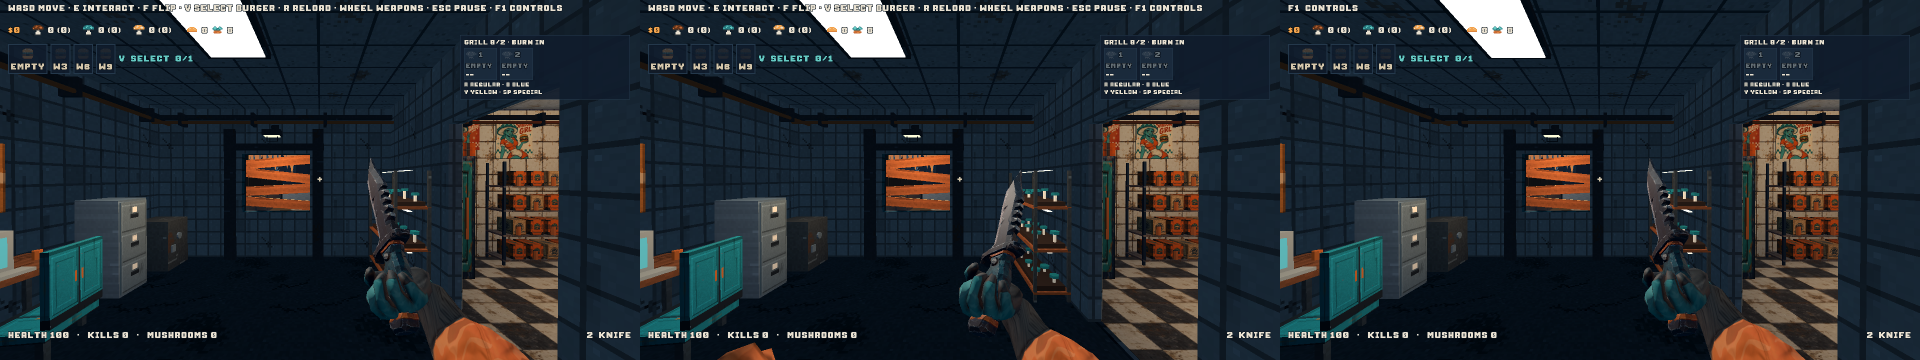
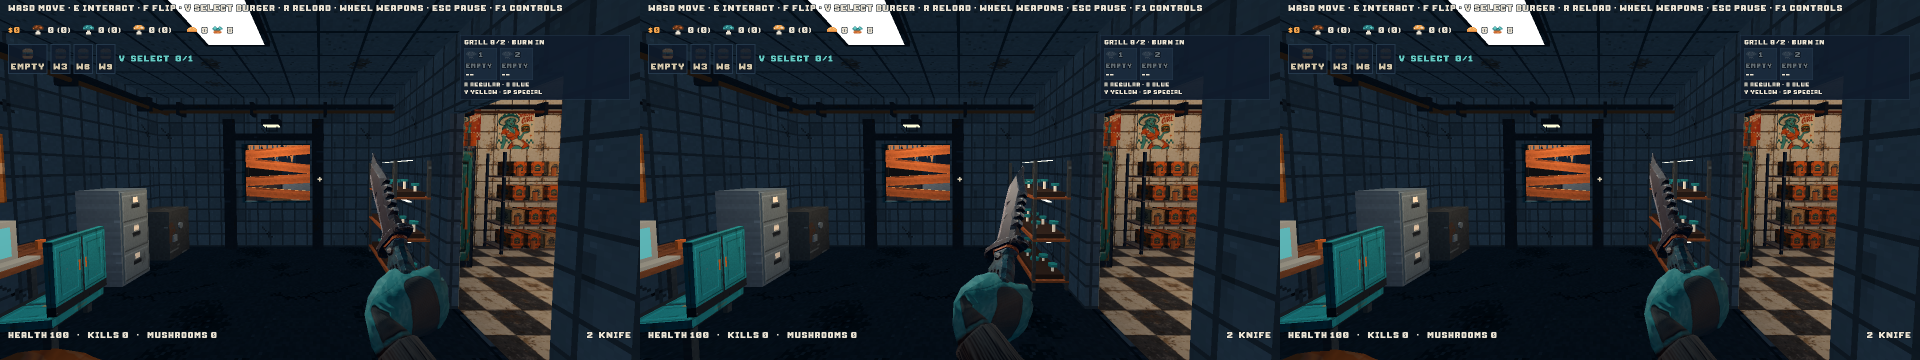
Re-fit the AKS arms on knife, dagger, sawn-off and pump from grip frames
Owner: the non-handgun arms weren't right. Their fits came from multi-start
ICP alone, which settles on hands that overlap the old ones but are turned
round. tools/fps_arms_fit.py now starts each fit from the hand's grip frame
(knuckle line index->pinky, palm facing the object) laid on the weapon's:
long guns from the grip/fore-end directions in camera space at rest
(tools/fps_arms_frames_export.gd, run in game), knife/dagger from the old PSX
hand's finger bones. ICP then refines (10-37 degrees). Close-up capture now
centres on the hand.

Tested: fps_arms_test, knife_test, knife_viewmodel_test, crop_duster_test,
shotgun_test, new_shotgun_grip_test, integration_test: 0 failures.
First-person captures inspected: knife/dagger come up out of the fist, pump
left hand wraps the fore-end from below, sawn-off hands on grip and fore-end.

Claude-Session: https://claude.ai/code/session_01WCsn9RbBfcfb7Wuzf9BFFz

diff --git a/tools/fps_arms_fit.py b/tools/fps_arms_fit.py
@@ -1,6 +1,14 @@
 #!/usr/bin/env python3
 """Solve how the shared AKS hand sits inside each weapon's old hand frame.
 
+Semantic start (default for the long guns and blades): plain multi-start ICP
+can settle on a hand that overlaps the old one but is turned round (fingers
+backwards). So each fit starts from the hand's grip frame (knuckle line index
+to pinky, palm facing the object) laid on the weapon's grip frame: for long
+guns from the grip/fore-end directions in camera space at rest, for the knife
+and dagger from the old PSX hand's own finger bones. ICP then only refines
+(tools/fps_arms_frames_export.gd writes frames.json first).
+
   godot --headless --path . --script res://tools/fps_arms_fit_export.gd -- /tmp/fit
   python3 tools/fps_arms_fit.py /tmp/fit
 
@@ -69,10 +77,54 @@ def icp(src, dst_tree, dst, R, t, iters=60, keep=0.75):
     return R, t, float(np.sqrt(np.mean(np.sort(d)[: int(len(d) * keep)] ** 2)))
 
 
-def fit(aks, old):
+def grip_frame(lm):
+    """x: knuckle line index->pinky, y: palm facing the object, origin: knuckles."""
+    I = np.array(lm['index'][0]); P = np.array(lm['pinky'][0]); W = np.array(lm['wrist'][0])
+    tips = np.array(lm['tips']).mean(0)
+    x = P - I; x /= np.linalg.norm(x)
+    n = np.cross(I - W, P - W); n /= np.linalg.norm(n)
+    if np.dot(n, tips - (I + P) / 2) < 0:
+        n = -n
+    y = n - x * np.dot(n, x); y /= np.linalg.norm(y)
+    return np.stack([x, y, np.cross(x, y)], 1), (I + P) / 2
+
+
+# long guns, in camera space at rest: knuckle line and palm->object direction
+LONG_GUN = {'r': ((0.0, -1.0, 0.25), (0.0, 0.0, -1.0)),   # pistol grip: knuckles down the raked grip, palm forward
+            'l': ((0.0, 0.0, 1.0), (0.0, 1.0, 0.0))}       # fore-end: knuckles along it (index forward), palm up
+
+
+def semantic_start(frames, weapon, side, aks_key):
+    H, h0 = grip_frame(frames[aks_key][side])
+    e = frames[weapon][side]
+    if 'index' in e:                        # knife/dagger: the old PSX hand's own grip frame
+        G, g0 = grip_frame(e)
+    else:
+        rc = np.array(e['ref_in_camera'][:3]).T    # columns: ref axes in camera space
+        k, n = (np.array(v, float) for v in LONG_GUN[side])
+        k = rc.T @ (k / np.linalg.norm(k)); n = rc.T @ (n / np.linalg.norm(n))
+        n = n - k * np.dot(n, k); n /= np.linalg.norm(n)
+        G, g0 = np.stack([k, n, np.cross(k, n)], 1), None
+    R0 = G @ H.T
+    return R0, h0, g0
+
+
+def angle_between(A, B):
+    return math.degrees(Rotation.from_matrix(A @ B.T).magnitude())
+
+
+def fit(aks, old, start=None):
     size = np.ptp(aks, axis=0).max()
     core, centre = hand_core(old, size)
     tree = cKDTree(core)
+    if start is not None:
+        R0, h0, g0 = start
+        t0 = (g0 - R0 @ h0) if g0 is not None else centre - (aks @ R0.T).mean(0)
+        R, t, err = icp(aks, tree, core, R0, t0)
+        ratio = np.ptp(core, axis=0).max() / size
+        drift = angle_between(R, R0)
+        eul = Rotation.from_matrix(R).as_euler('YXZ', degrees=True)
+        return t, (eul[1], eul[0], eul[2]), err, ratio, drift
     best = None
     for R0 in axis_rotations():
         t0 = centre - (aks @ R0.T).mean(0)
@@ -84,18 +136,25 @@ def fit(aks, old):
     # Godot Basis.from_euler default order is YXZ
     eul = Rotation.from_matrix(R).as_euler('YXZ', degrees=True)
     rot = (eul[1], eul[0], eul[2])
-    return t, rot, err, ratio
+    return t, rot, err, ratio, None
 
 
 def main(d):
+    import json
+    fp = os.path.join(d, 'frames.json')
+    frames = json.load(open(fp)) if os.path.exists(fp) else {}
     for weapon, pairs in PAIRS.items():
         out = []
         for side, pair in zip('rl', pairs):
             a, o = pair[0], pair[1]
             scale = pair[2] if len(pair) > 2 else 1.0
-            t, rot, err, ratio = fit(load(d, a) * scale, load(d, o))
+            start = None
+            if weapon in frames and not a.endswith('_p43'):
+                start = semantic_start(frames, weapon, side, 'aks_fist' if a.endswith('_fist') else 'aks')
+            t, rot, err, ratio, drift = fit(load(d, a) * scale, load(d, o), start)
             out.append('"%s": [Vector3(%.4f, %.4f, %.4f), Vector3(%.1f, %.1f, %.1f)]' % (side, *t, *rot))
-            print('# %s %s: rms %.4f m, old/new hand size %.2f' % (weapon, side, err, ratio))
+            how = 'semantic start, ICP turned it %.1f deg' % drift if drift is not None else 'multi-start ICP'
+            print('# %s %s: rms %.4f m, old/new hand size %.2f (%s)' % (weapon, side, err, ratio, how))
         print('"%s": {%s}' % (weapon, ', '.join(out)))
 
 

diff --git a/AGENTS.md b/AGENTS.md
@@ -169,4 +169,4 @@ See docs/handover/UNDEAD_DELIVERY.md; run delivery_test.gd and capture_delivery.
 
 Mushroom grinder: game/grinder_station.gd owns the deposit transaction at Codex's grinder (group mushroom_grinder; play_deposit is cosmetic only). Never create stock from the visual, and keep exactly one grinder model. Run tools/grinder_test.gd and tools/capture_grinder_station.gd.
 
-First-person arms: every weapon uses shared rigged arms in weapons/fps_arms/ (fps_arms.gd; AKS rig for knife/dagger/shotguns, Pistol 43 rig for the handguns, one-handed with left_weight raised for reloads; credits in CREDITS.md). Weapons keep their own animation and old hand nodes; FpsArms.attach() hides the old hand meshes and IK-follows those nodes. Don't re-show or delete the old hand nodes: they are the IK targets. When a weapon's hand placement changes, re-solve FITS with tools/fps_arms_fit_export.gd + tools/fps_arms_fit.py (handguns: tools/fps_arms_gun_fit.gd), and check fingers with tools/capture_fps_arms_close.gd. Run tools/fps_arms_test.gd and render tools/capture_fps_arms.gd.
+First-person arms: every weapon uses shared rigged arms in weapons/fps_arms/ (fps_arms.gd; AKS rig for knife/dagger/shotguns, Pistol 43 rig for the handguns, one-handed with left_weight raised for reloads; credits in CREDITS.md). Weapons keep their own animation and old hand nodes; FpsArms.attach() hides the old hand meshes and IK-follows those nodes. Don't re-show or delete the old hand nodes: they are the IK targets. When a weapon's hand placement changes, re-solve FITS with tools/fps_arms_fit_export.gd + tools/fps_arms_frames_export.gd + tools/fps_arms_fit.py (grip-frame start; plain ICP can turn hands backwards; handguns: tools/fps_arms_gun_fit.gd), and check fingers with tools/capture_fps_arms_close.gd. Run tools/fps_arms_test.gd and render tools/capture_fps_arms.gd.

diff --git a/README.md b/README.md
@@ -27,9 +27,11 @@ camera, not the gun; for the long guns' far fore-ends the shoulder swings
 down below the frame. Finger pose comes from one frame of the pack's own
 animation; the knife closes the trigger finger into a fist.
 
-- Fits (how a rig's hand sits in each old hand frame): long guns and blades by
-  ICP, `tools/fps_arms_fit_export.gd` then `python3 tools/fps_arms_fit.py`
-  (needs SciPy); handguns by `tools/fps_arms_gun_fit.gd`, from how the Pistol 43
+- Fits (how a rig's hand sits in each old hand frame): long guns and blades
+  start from the grip frame (knuckle line along the grip/fore-end, palm facing
+  it; blades from the old PSX hand's finger bones) and ICP refines:
+  `tools/fps_arms_fit_export.gd`, `tools/fps_arms_frames_export.gd`, then
+  `python3 tools/fps_arms_fit.py` (needs SciPy); handguns by `tools/fps_arms_gun_fit.gd`, from how the Pistol 43
   hand holds its own Glock (ICP alone turned the pistol fingers backwards).
   Paste the output into `FITS`. Close-ups: `tools/capture_fps_arms_close.gd`.
 - Test: `tools/fps_arms_test.gd` (hands within 1 cm of the grips through idle,
